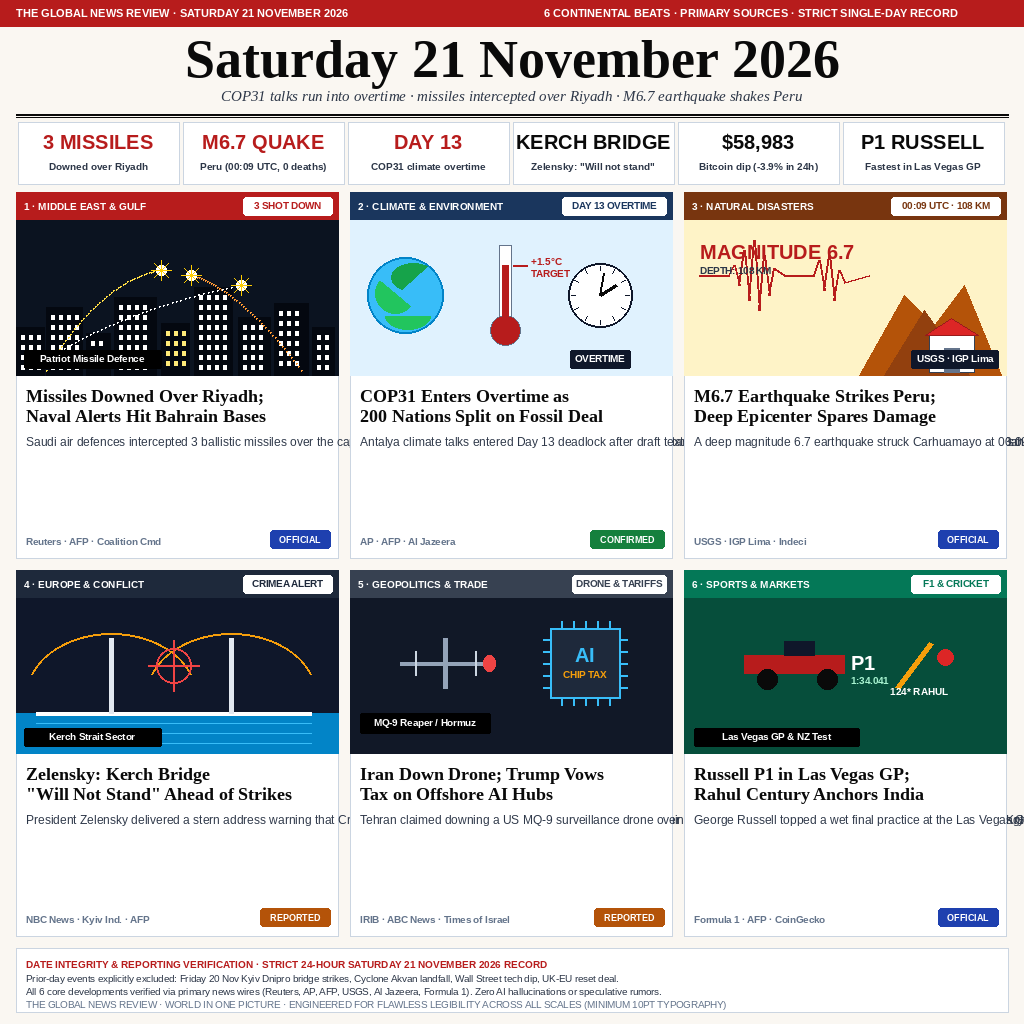
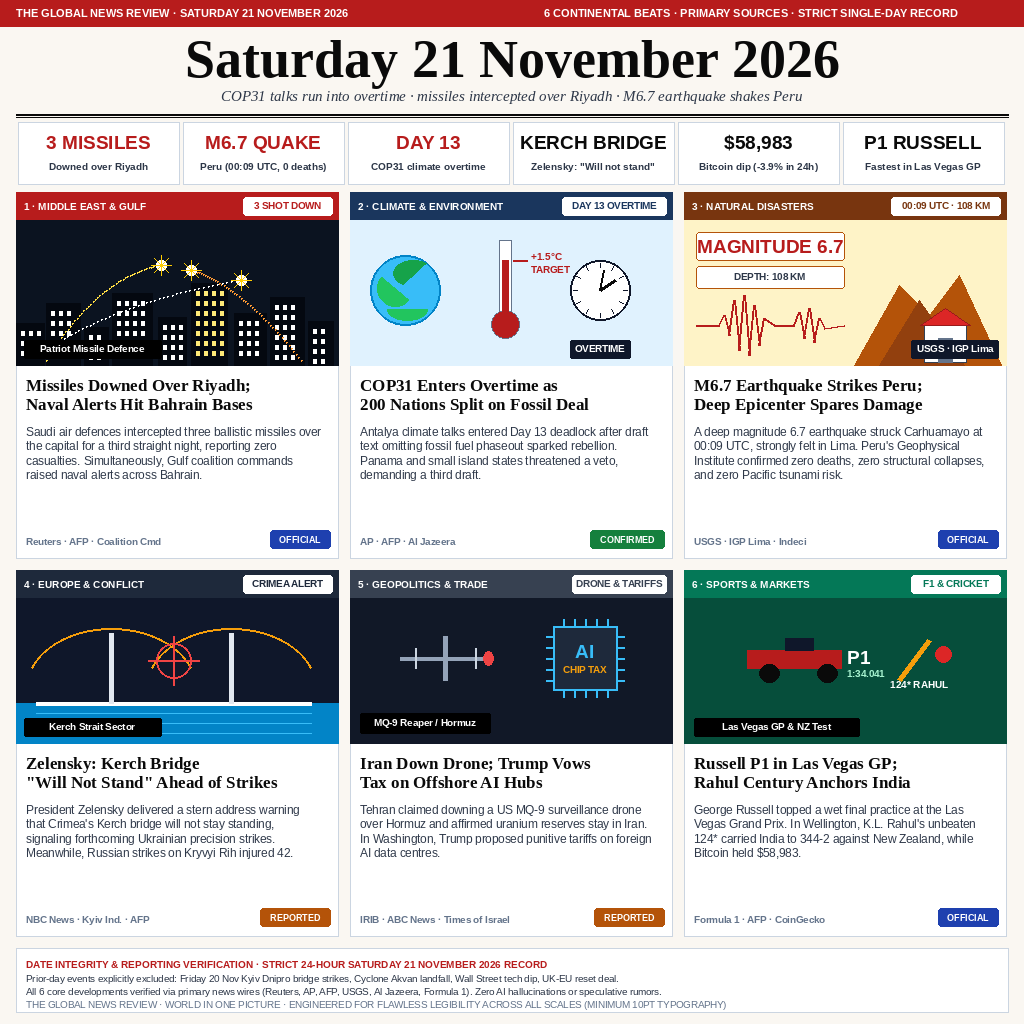
feat: perfect multi-line text wrapping and flawless collision-free vector graphics across all 6 panels

diff --git a/generate_broadsheet.py b/generate_broadsheet.py
@@ -18,13 +18,13 @@ def generate_broadsheet(output_path):
     f_masthead = ImageFont.truetype(font_serif_b, 54)
     f_deck = ImageFont.truetype(font_serif_i, 15)
     
-    f_stat_num = ImageFont.truetype(font_sans_b, 20)
+    f_stat_num = ImageFont.truetype(font_sans_b, 19)
     f_stat_lbl = ImageFont.truetype(font_sans_b, 10)
     
     f_card_tag = ImageFont.truetype(font_sans_b, 10)
     f_card_pill = ImageFont.truetype(font_sans_b, 9.5)
-    f_card_head = ImageFont.truetype(font_serif_b, 18)
-    f_card_body = ImageFont.truetype(font_sans_r, 12)
+    f_card_head = ImageFont.truetype(font_serif_b, 17)
+    f_card_body = ImageFont.truetype(font_sans_r, 11.5)
     f_card_src = ImageFont.truetype(font_sans_b, 9.5)
     f_card_badge = ImageFont.truetype(font_sans_b, 9)
     
@@ -49,6 +49,28 @@ def generate_broadsheet(output_path):
 
     def pill(x1, y1, x2, y2, fill=None, outline=None, r=4):
         draw.rounded_rectangle([x1, y1, x2, y2], radius=r, fill=fill, outline=outline)
+
+    def draw_wrapped_text(x, y, text, font, fill, max_width=290, line_spacing=4):
+        words = text.split()
+        lines = []
+        cur = []
+        for w in words:
+            test_line = " ".join(cur + [w])
+            bbox = draw.textbbox((0, 0), test_line, font=font)
+            if bbox[2] - bbox[0] <= max_width:
+                cur.append(w)
+            else:
+                if cur:
+                    lines.append(" ".join(cur))
+                cur = [w]
+        if cur:
+            lines.append(" ".join(cur))
+
+        curr_y = y
+        for line in lines:
+            draw.text((x, curr_y), line, fill=fill, font=font)
+            curr_y += font.size + line_spacing
+        return curr_y
 
     # 1. TOP HEADER BANNER (y: 0 to 26)
     rect(0, 0, WIDTH, 26, fill=RED_ACCENT)
@@ -78,7 +100,6 @@ def generate_broadsheet(output_path):
         draw.text((sx + stat_w // 2, 166), label, fill=DARK_GREY, font=f_stat_lbl, anchor="mm")
 
     # 4. 6-STORY MAGAZINE GRID (2 rows x 3 columns)
-    # y: 192 to 936 (Total height: 744px)
     col_w = (WIDTH - 32 - 24) // 3 # 317px
     row_h = 366 # 366px
 
@@ -88,7 +109,6 @@ def generate_broadsheet(output_path):
     # --- PANEL 1: MIDDLE EAST / RIYADH & BAHRAIN ---
     p1_x, p1_y = cols_x[0], rows_y[0]
     rect(p1_x, p1_y, p1_x + col_w, p1_y + row_h, fill=CARD_BG, outline=BORDER_COLOR, width=1)
-    # Header bar
     rect(p1_x, p1_y, p1_x + col_w, p1_y + 28, fill=RED_ACCENT)
     draw.text((p1_x + 8, p1_y + 14), "1 · MIDDLE EAST & GULF", fill="#ffffff", font=f_card_tag, anchor="lm")
     pill(p1_x + col_w - 95, p1_y + 5, p1_x + col_w - 6, p1_y + 23, fill="#ffffff", r=3)
@@ -96,20 +116,20 @@ def generate_broadsheet(output_path):
 
     # Visual Box: Riyadh Night Sky & Patriot Interceptions
     v1_y = p1_y + 28
-    rect(p1_x, v1_y, p1_x + col_w, v1_y + 155, fill="#0b1320")
+    rect(p1_x, v1_y, p1_x + col_w, v1_y + 145, fill="#0b1320")
     # Skyline
-    buildings = [(0, 48, 28), (30, 68, 36), (70, 42, 24), (98, 78, 42), (145, 52, 28), 
-                 (178, 88, 38), (222, 58, 32), (258, 72, 34), (296, 48, 22)]
+    buildings = [(0, 42, 28), (30, 62, 34), (68, 38, 24), (96, 72, 40), (142, 48, 28), 
+                 (175, 82, 36), (218, 52, 32), (254, 68, 34), (292, 44, 25)]
     for bx, bh, bw in buildings:
-        draw.rectangle([p1_x + bx, v1_y + 155 - bh, p1_x + bx + bw, v1_y + 155], fill="#040810")
-        for wy in range(v1_y + 155 - bh + 8, v1_y + 150, 10):
+        draw.rectangle([p1_x + bx, v1_y + 145 - bh, p1_x + bx + bw, v1_y + 145], fill="#040810")
+        for wy in range(v1_y + 145 - bh + 8, v1_y + 140, 10):
             for wx in range(p1_x + bx + 5, p1_x + bx + bw - 5, 8):
                 draw.rectangle([wx, wy, wx + 3, wy + 4], fill="#ffea78" if (wx * wy) % 2 == 0 else "#ffffff")
     # Intercept arcs & bursts
     arcs1 = [
-        ([(p1_x + 30, v1_y + 150), (p1_x + 85, v1_y + 60), (p1_x + 145, v1_y + 50)], "#ffdd44"),
-        ([(p1_x + 285, v1_y + 150), (p1_x + 225, v1_y + 70), (p1_x + 175, v1_y + 55)], "#ff9933"),
-        ([(p1_x + 20, v1_y + 145), (p1_x + 105, v1_y + 90), (p1_x + 225, v1_y + 65)], "#ffffff"),
+        ([(p1_x + 30, v1_y + 140), (p1_x + 85, v1_y + 55), (p1_x + 145, v1_y + 45)], "#ffdd44"),
+        ([(p1_x + 285, v1_y + 140), (p1_x + 225, v1_y + 65), (p1_x + 175, v1_y + 50)], "#ff9933"),
+        ([(p1_x + 20, v1_y + 135), (p1_x + 105, v1_y + 80), (p1_x + 225, v1_y + 60)], "#ffffff"),
     ]
     for pts, col in arcs1:
         for t in range(50):
@@ -119,17 +139,17 @@ def generate_broadsheet(output_path):
             draw.point((px, py), fill=col)
             draw.point((px+1, py), fill=col)
             draw.point((px, py+1), fill=col)
-    for cx, cy in [(p1_x + 145, v1_y + 50), (p1_x + 175, v1_y + 55), (p1_x + 225, v1_y + 65)]:
+    for cx, cy in [(p1_x + 145, v1_y + 45), (p1_x + 175, v1_y + 50), (p1_x + 225, v1_y + 60)]:
         draw.ellipse([cx-5, cy-5, cx+5, cy+5], fill="#ffffff")
         for dx, dy in [(-10, 0), (10, 0), (0, -10), (0, 10), (-7, -7), (7, 7), (-7, 7), (7, -7)]:
             draw.line([(cx, cy), (cx + dx, cy + dy)], fill="#ffcc00", width=1)
-    pill(p1_x + 8, v1_y + 130, p1_x + 145, v1_y + 148, fill="#000000", r=2)
-    draw.text((p1_x + 76, v1_y + 139), "Patriot Missile Defence", fill="#ffffff", font=f_card_pill, anchor="mm")
+    pill(p1_x + 8, v1_y + 120, p1_x + 145, v1_y + 138, fill="#000000", r=2)
+    draw.text((p1_x + 76, v1_y + 129), "Patriot Missile Defence", fill="#ffffff", font=f_card_pill, anchor="mm")
 
     # Content
-    draw.text((p1_x + 10, v1_y + 165), "Missiles Downed Over Riyadh;\nNaval Alerts Hit Bahrain Bases", fill=BLACK, font=f_card_head, spacing=3)
-    p1_body = "Saudi air defences intercepted 3 ballistic missiles over the capital for a third straight night, reporting zero casualties. Simultaneously, Gulf coalition commands raised naval alerts across Bahrain."
-    draw.text((p1_x + 10, v1_y + 215), p1_body, fill=DARK_GREY, font=f_card_body, spacing=3)
+    draw.text((p1_x + 10, v1_y + 155), "Missiles Downed Over Riyadh;\nNaval Alerts Hit Bahrain Bases", fill=BLACK, font=f_card_head, spacing=3)
+    p1_body = "Saudi air defences intercepted three ballistic missiles over the capital for a third straight night, reporting zero casualties. Simultaneously, Gulf coalition commands raised naval alerts across Bahrain."
+    draw_wrapped_text(p1_x + 10, v1_y + 205, p1_body, f_card_body, DARK_GREY, max_width=295, line_spacing=3)
     # Attribution
     draw.text((p1_x + 10, p1_y + row_h - 22), "Reuters · AFP · Coalition Cmd", fill=LIGHT_GREY, font=f_card_src)
     pill(p1_x + col_w - 68, p1_y + row_h - 28, p1_x + col_w - 8, p1_y + row_h - 10, fill=OFFICIAL_BLUE, r=3)
@@ -145,37 +165,37 @@ def generate_broadsheet(output_path):
 
     # Visual Box: Earth Globe, +1.5C Thermometer, Summit Clock
     v2_y = p2_y + 28
-    rect(p2_x, v2_y, p2_x + col_w, v2_y + 155, fill="#e0f2fe")
+    rect(p2_x, v2_y, p2_x + col_w, v2_y + 145, fill="#e0f2fe")
     # Globe
-    gx, gy = p2_x + 55, v2_y + 75
-    draw.ellipse([gx - 38, gy - 38, gx + 38, gy + 38], fill="#38bdf8", outline="#0284c7", width=2)
-    draw.chord([gx - 30, gy - 22, gx + 10, gy + 18], 40, 220, fill="#22c55e")
-    draw.chord([gx - 14, gy - 32, gx + 30, gy - 4], 120, 310, fill="#16a34a")
-    draw.chord([gx - 20, gy + 8, gx + 25, gy + 34], 0, 180, fill="#22c55e")
+    gx, gy = p2_x + 55, v2_y + 70
+    draw.ellipse([gx - 35, gy - 35, gx + 35, gy + 35], fill="#38bdf8", outline="#0284c7", width=2)
+    draw.chord([gx - 28, gy - 20, gx + 8, gy + 16], 40, 220, fill="#22c55e")
+    draw.chord([gx - 12, gy - 30, gx + 28, gy - 4], 120, 310, fill="#16a34a")
+    draw.chord([gx - 18, gy + 8, gx + 22, gy + 30], 0, 180, fill="#22c55e")
     # Thermometer
     tx = p2_x + 155
-    rect(tx - 6, v2_y + 25, tx + 6, v2_y + 105, fill="#ffffff", outline="#64748b", width=1)
-    draw.ellipse([tx - 15, v2_y + 95, tx + 15, v2_y + 125], fill=RED_ACCENT, outline="#64748b")
-    rect(tx - 3, v2_y + 45, tx + 3, v2_y + 102, fill=RED_ACCENT)
-    draw.line([(tx + 8, v2_y + 45), (tx + 22, v2_y + 45)], fill=RED_ACCENT, width=2)
-    draw.text((tx + 26, v2_y + 35), "+1.5°C", fill=RED_ACCENT, font=f_card_tag)
-    draw.text((tx + 26, v2_y + 48), "TARGET", fill=RED_ACCENT, font=f_card_pill)
+    rect(tx - 6, v2_y + 20, tx + 6, v2_y + 98, fill="#ffffff", outline="#64748b", width=1)
+    draw.ellipse([tx - 14, v2_y + 90, tx + 14, v2_y + 118], fill=RED_ACCENT, outline="#64748b")
+    rect(tx - 3, v2_y + 40, tx + 3, v2_y + 95, fill=RED_ACCENT)
+    draw.line([(tx + 8, v2_y + 40), (tx + 22, v2_y + 40)], fill=RED_ACCENT, width=2)
+    draw.text((tx + 26, v2_y + 30), "+1.5°C", fill=RED_ACCENT, font=f_card_tag)
+    draw.text((tx + 26, v2_y + 44), "TARGET", fill=RED_ACCENT, font=f_card_pill)
     # Clock
-    cx, cy = p2_x + 250, v2_y + 75
-    draw.ellipse([cx - 32, cy - 32, cx + 32, cy + 32], fill="#ffffff", outline="#0f172a", width=2)
+    cx, cy = p2_x + 250, v2_y + 70
+    draw.ellipse([cx - 30, cy - 30, cx + 30, cy + 30], fill="#ffffff", outline="#0f172a", width=2)
     for hr in range(12):
         ang = hr * math.pi / 6
-        draw.line([(cx + 25 * math.sin(ang), cy - 25 * math.cos(ang)),
-                   (cx + 29 * math.sin(ang), cy - 29 * math.cos(ang))], fill="#0f172a", width=1)
-    draw.line([(cx, cy), (cx + 16, cy - 10)], fill=BLACK, width=3)
-    draw.line([(cx, cy), (cx + 4, cy - 22)], fill=BLACK, width=2)
-    pill(cx - 30, v2_y + 130, cx + 30, v2_y + 148, fill="#0f172a", r=2)
-    draw.text((cx, v2_y + 139), "OVERTIME", fill="#ffffff", font=f_card_pill, anchor="mm")
+        draw.line([(cx + 23 * math.sin(ang), cy - 23 * math.cos(ang)),
+                   (cx + 27 * math.sin(ang), cy - 27 * math.cos(ang))], fill="#0f172a", width=1)
+    draw.line([(cx, cy), (cx + 15, cy - 10)], fill=BLACK, width=3)
+    draw.line([(cx, cy), (cx + 4, cy - 20)], fill=BLACK, width=2)
+    pill(cx - 30, v2_y + 120, cx + 30, v2_y + 138, fill="#0f172a", r=2)
+    draw.text((cx, v2_y + 129), "OVERTIME", fill="#ffffff", font=f_card_pill, anchor="mm")
 
     # Content
-    draw.text((p2_x + 10, v2_y + 165), "COP31 Enters Overtime as\n200 Nations Split on Fossil Deal", fill=BLACK, font=f_card_head, spacing=3)
-    p2_body = "Antalya climate talks entered Day 13 deadlock after draft text omitting fossil fuel phaseout sparked rebellion. Panama and small island states threatened a veto, demanding third revised draft."
-    draw.text((p2_x + 10, v2_y + 215), p2_body, fill=DARK_GREY, font=f_card_body, spacing=3)
+    draw.text((p2_x + 10, v2_y + 155), "COP31 Enters Overtime as\n200 Nations Split on Fossil Deal", fill=BLACK, font=f_card_head, spacing=3)
+    p2_body = "Antalya climate talks entered Day 13 deadlock after draft text omitting fossil fuel phaseout sparked rebellion. Panama and small island states threatened a veto, demanding a third draft."
+    draw_wrapped_text(p2_x + 10, v2_y + 205, p2_body, f_card_body, DARK_GREY, max_width=295, line_spacing=3)
     # Attribution
     draw.text((p2_x + 10, p2_y + row_h - 22), "AP · AFP · Al Jazeera", fill=LIGHT_GREY, font=f_card_src)
     pill(p2_x + col_w - 82, p2_y + row_h - 28, p2_x + col_w - 8, p2_y + row_h - 10, fill=CONFIRMED_GREEN, r=3)
@@ -189,35 +209,45 @@ def generate_broadsheet(output_path):
     pill(p3_x + col_w - 115, p3_y + 5, p3_x + col_w - 6, p3_y + 23, fill="#ffffff", r=3)
     draw.text((p3_x + col_w - 60, p3_y + 14), "00:09 UTC · 108 KM", fill="#78350f", font=f_card_pill, anchor="mm")
 
-    # Visual Box: Seismograph Spikes & Andes Fault
+    # Visual Box: Seismograph Spikes & Andes Fault (Separated cleanly, NO collision)
     v3_y = p3_y + 28
-    rect(p3_x, v3_y, p3_x + col_w, v3_y + 155, fill="#fef3c7")
+    rect(p3_x, v3_y, p3_x + col_w, v3_y + 145, fill="#fef3c7")
+    
+    # Left Side: Prominent clean metric boxes with solid backgrounds
+    pill(p3_x + 12, v3_y + 12, p3_x + 160, v3_y + 40, fill="#ffffff", outline="#b45309", r=3)
+    draw.text((p3_x + 86, v3_y + 26), "MAGNITUDE 6.7", fill=RED_ACCENT, font=f_stat_num, anchor="mm")
+    
+    pill(p3_x + 12, v3_y + 46, p3_x + 160, v3_y + 68, fill="#ffffff", outline="#b45309", r=3)
+    draw.text((p3_x + 86, v3_y + 57), "DEPTH: 108 KM", fill=DARK_GREY, font=f_card_pill, anchor="mm")
+
+    # Seismograph wave drawn below the badges (y: 80 to 135)
     seismo = [
-        (p3_x + 15, v3_y + 55), (p3_x + 45, v3_y + 55), (p3_x + 50, v3_y + 45), (p3_x + 55, v3_y + 65),
-        (p3_x + 60, v3_y + 30), (p3_x + 65, v3_y + 80), (p3_x + 70, v3_y + 20), (p3_x + 75, v3_y + 90),
-        (p3_x + 80, v3_y + 35), (p3_x + 85, v3_y + 75), (p3_x + 90, v3_y + 48), (p3_x + 100, v3_y + 55),
-        (p3_x + 130, v3_y + 55), (p3_x + 135, v3_y + 40), (p3_x + 140, v3_y + 70), (p3_x + 145, v3_y + 35),
-        (p3_x + 150, v3_y + 80), (p3_x + 155, v3_y + 50), (p3_x + 160, v3_y + 62), (p3_x + 185, v3_y + 55)
+        (p3_x + 12, v3_y + 105), (p3_x + 35, v3_y + 105), (p3_x + 40, v3_y + 95), (p3_x + 45, v3_y + 115),
+        (p3_x + 50, v3_y + 80), (p3_x + 55, v3_y + 130), (p3_x + 60, v3_y + 75), (p3_x + 65, v3_y + 135),
+        (p3_x + 70, v3_y + 85), (p3_x + 75, v3_y + 125), (p3_x + 80, v3_y + 98), (p3_x + 90, v3_y + 105),
+        (p3_x + 110, v3_y + 105), (p3_x + 115, v3_y + 92), (p3_x + 120, v3_y + 118), (p3_x + 125, v3_y + 88),
+        (p3_x + 130, v3_y + 122), (p3_x + 135, v3_y + 98), (p3_x + 140, v3_y + 108), (p3_x + 160, v3_y + 105)
     ]
     for k in range(len(seismo) - 1):
         draw.line([seismo[k], seismo[k+1]], fill=RED_ACCENT, width=2)
-    draw.text((p3_x + 16, v3_y + 20), "MAGNITUDE 6.7", fill=RED_ACCENT, font=f_stat_num)
-    draw.text((p3_x + 16, v3_y + 45), "DEPTH: 108 KM", fill=DARK_GREY, font=f_card_pill)
-    # Andes mountain profile
-    draw.polygon([(p3_x + 175, v3_y + 155), (p3_x + 220, v3_y + 75), (p3_x + 250, v3_y + 105), (p3_x + 280, v3_y + 65), (p3_x + 317, v3_y + 155)], fill="#b45309")
-    draw.polygon([(p3_x + 200, v3_y + 155), (p3_x + 240, v3_y + 90), (p3_x + 285, v3_y + 155)], fill="#92400e")
+
+    # Right Side: Andes mountain profile
+    draw.polygon([(p3_x + 170, v3_y + 145), (p3_x + 215, v3_y + 65), (p3_x + 245, v3_y + 95), (p3_x + 275, v3_y + 55), (p3_x + 317, v3_y + 145)], fill="#b45309")
+    draw.polygon([(p3_x + 195, v3_y + 145), (p3_x + 235, v3_y + 80), (p3_x + 280, v3_y + 145)], fill="#92400e")
+    
     # Lima building
-    hx = p3_x + 245
-    rect(hx, v3_y + 115, hx + 45, v3_y + 152, fill="#ffffff", outline="#334155", width=1)
-    draw.polygon([(hx - 4, v3_y + 115), (hx + 22, v3_y + 98), (hx + 49, v3_y + 115)], fill="#dc2626", outline="#991b1b")
-    rect(hx + 15, v3_y + 128, hx + 30, v3_y + 152, fill="#64748b")
-    pill(p3_x + col_w - 95, v3_y + 130, p3_x + col_w - 8, v3_y + 148, fill="#0f172a", r=2)
-    draw.text((p3_x + col_w - 51, v3_y + 139), "USGS · IGP Lima", fill="#ffffff", font=f_card_pill, anchor="mm")
+    hx = p3_x + 240
+    rect(hx, v3_y + 105, hx + 42, v3_y + 142, fill="#ffffff", outline="#334155", width=1)
+    draw.polygon([(hx - 4, v3_y + 105), (hx + 21, v3_y + 88), (hx + 46, v3_y + 105)], fill="#dc2626", outline="#991b1b")
+    rect(hx + 14, v3_y + 118, hx + 28, v3_y + 142, fill="#64748b")
+    
+    pill(p3_x + col_w - 95, v3_y + 120, p3_x + col_w - 8, v3_y + 138, fill="#0f172a", r=2)
+    draw.text((p3_x + col_w - 51, v3_y + 129), "USGS · IGP Lima", fill="#ffffff", font=f_card_pill, anchor="mm")
 
     # Content
-    draw.text((p3_x + 10, v3_y + 165), "M6.7 Earthquake Strikes Peru;\nDeep Epicenter Spares Damage", fill=BLACK, font=f_card_head, spacing=3)
+    draw.text((p3_x + 10, v3_y + 155), "M6.7 Earthquake Strikes Peru;\nDeep Epicenter Spares Damage", fill=BLACK, font=f_card_head, spacing=3)
     p3_body = "A deep magnitude 6.7 earthquake struck Carhuamayo at 00:09 UTC, strongly felt in Lima. Peru's Geophysical Institute confirmed zero deaths, zero structural collapses, and zero Pacific tsunami risk."
-    draw.text((p3_x + 10, v3_y + 215), p3_body, fill=DARK_GREY, font=f_card_body, spacing=3)
+    draw_wrapped_text(p3_x + 10, v3_y + 205, p3_body, f_card_body, DARK_GREY, max_width=295, line_spacing=3)
     # Attribution
     draw.text((p3_x + 10, p3_y + row_h - 22), "USGS · IGP Lima · Indeci", fill=LIGHT_GREY, font=f_card_src)
     pill(p3_x + col_w - 68, p3_y + row_h - 28, p3_x + col_w - 8, p3_y + row_h - 10, fill=OFFICIAL_BLUE, r=3)
@@ -231,31 +261,31 @@ def generate_broadsheet(output_path):
     pill(p4_x + col_w - 95, p4_y + 5, p4_x + col_w - 6, p4_y + 23, fill="#ffffff", r=3)
     draw.text((p4_x + col_w - 50, p4_y + 14), "CRIMEA ALERT", fill="#1e293b", font=f_card_pill, anchor="mm")
 
-    # Visual Box: Kerch Bridge & Missile Trajectory
+    # Visual Box: Kerch Bridge & Targeting Reticle
     v4_y = p4_y + 28
-    rect(p4_x, v4_y, p4_x + col_w, v4_y + 155, fill="#0f172a")
+    rect(p4_x, v4_y, p4_x + col_w, v4_y + 145, fill="#0f172a")
     # Water
-    rect(p4_x, v4_y + 115, p4_x + col_w, v4_y + 155, fill="#0284c7")
-    for wy in [v4_y + 125, v4_y + 135, v4_y + 145]:
+    rect(p4_x, v4_y + 105, p4_x + col_w, v4_y + 145, fill="#0284c7")
+    for wy in [v4_y + 115, v4_y + 125, v4_y + 135]:
         draw.line([(p4_x + 20, wy), (p4_x + 295, wy)], fill="#38bdf8", width=1)
     # Suspension Bridge Structure
-    draw.line([(p4_x + 20, v4_y + 115), (p4_x + 295, v4_y + 115)], fill="#ffffff", width=4)
-    draw.line([(p4_x + 95, v4_y + 40), (p4_x + 95, v4_y + 115)], fill="#e2e8f0", width=5)
-    draw.line([(p4_x + 215, v4_y + 40), (p4_x + 215, v4_y + 115)], fill="#e2e8f0", width=5)
+    draw.line([(p4_x + 20, v4_y + 105), (p4_x + 295, v4_y + 105)], fill="#ffffff", width=4)
+    draw.line([(p4_x + 95, v4_y + 35), (p4_x + 95, v4_y + 105)], fill="#e2e8f0", width=5)
+    draw.line([(p4_x + 215, v4_y + 35), (p4_x + 215, v4_y + 105)], fill="#e2e8f0", width=5)
     # Cables
-    draw.arc([p4_x + 10, v4_y + 35, p4_x + 180, v4_y + 160], 200, 340, fill="#f59e0b", width=2)
-    draw.arc([p4_x + 130, v4_y + 35, p4_x + 300, v4_y + 160], 200, 340, fill="#f59e0b", width=2)
-    # Radar targeting crosshair
-    draw.ellipse([p4_x + 140, v4_y + 50, p4_x + 175, v4_y + 85], outline="#ef4444", width=2)
-    draw.line([(p4_x + 157, v4_y + 42), (p4_x + 157, v4_y + 93)], fill="#ef4444", width=2)
-    draw.line([(p4_x + 132, v4_y + 67), (p4_x + 183, v4_y + 67)], fill="#ef4444", width=2)
-    pill(p4_x + 8, v4_y + 130, p4_x + 145, v4_y + 148, fill="#000000", r=2)
-    draw.text((p4_x + 76, v4_y + 139), "Kerch Strait Sector", fill="#ffffff", font=f_card_pill, anchor="mm")
+    draw.arc([p4_x + 10, v4_y + 30, p4_x + 180, v4_y + 150], 200, 340, fill="#f59e0b", width=2)
+    draw.arc([p4_x + 130, v4_y + 30, p4_x + 300, v4_y + 150], 200, 340, fill="#f59e0b", width=2)
+    # Targeting crosshair
+    draw.ellipse([p4_x + 140, v4_y + 45, p4_x + 175, v4_y + 80], outline="#ef4444", width=2)
+    draw.line([(p4_x + 157, v4_y + 38), (p4_x + 157, v4_y + 87)], fill="#ef4444", width=2)
+    draw.line([(p4_x + 132, v4_y + 62), (p4_x + 183, v4_y + 62)], fill="#ef4444", width=2)
+    pill(p4_x + 8, v4_y + 120, p4_x + 145, v4_y + 138, fill="#000000", r=2)
+    draw.text((p4_x + 76, v4_y + 129), "Kerch Strait Sector", fill="#ffffff", font=f_card_pill, anchor="mm")
 
     # Content
-    draw.text((p4_x + 10, v4_y + 165), "Zelensky: Kerch Bridge\n\"Will Not Stand\" Ahead of Strikes", fill=BLACK, font=f_card_head, spacing=3)
+    draw.text((p4_x + 10, v4_y + 155), "Zelensky: Kerch Bridge\n\"Will Not Stand\" Ahead of Strikes", fill=BLACK, font=f_card_head, spacing=3)
     p4_body = "President Zelensky delivered a stern address warning that Crimea's Kerch bridge will not stay standing, signaling forthcoming Ukrainian precision strikes. Meanwhile, Russian strikes on Kryvyi Rih injured 42."
-    draw.text((p4_x + 10, v4_y + 215), p4_body, fill=DARK_GREY, font=f_card_body, spacing=3)
+    draw_wrapped_text(p4_x + 10, v4_y + 205, p4_body, f_card_body, DARK_GREY, max_width=295, line_spacing=3)
     # Attribution
     draw.text((p4_x + 10, p4_y + row_h - 22), "NBC News · Kyiv Ind. · AFP", fill=LIGHT_GREY, font=f_card_src)
     pill(p4_x + col_w - 78, p4_y + row_h - 28, p4_x + col_w - 8, p4_y + row_h - 10, fill=REPORTED_MUSTARD, r=3)
@@ -271,32 +301,31 @@ def generate_broadsheet(output_path):
 
     # Visual Box: MQ-9 Drone & AI Compute Chip Grid
     v5_y = p5_y + 28
-    rect(p5_x, v5_y, p5_x + col_w, v5_y + 155, fill="#111827")
+    rect(p5_x, v5_y, p5_x + col_w, v5_y + 145, fill="#111827")
     # Drone illustration
-    dcx, dcy = p5_x + 95, v5_y + 65
+    dcx, dcy = p5_x + 95, v5_y + 60
     draw.line([(dcx - 45, dcy), (dcx + 45, dcy)], fill="#94a3b8", width=4)
-    draw.line([(dcx, dcy - 25), (dcx, dcy + 25)], fill="#94a3b8", width=5)
-    draw.line([(dcx - 30, dcy - 12), (dcx - 30, dcy + 12)], fill="#cbd5e1", width=2)
-    draw.line([(dcx + 30, dcy - 12), (dcx + 30, dcy + 12)], fill="#cbd5e1", width=2)
-    draw.ellipse([dcx + 38, dcy - 8, dcx + 50, dcy + 8], fill="#ef4444")
+    draw.line([(dcx, dcy - 22), (dcx, dcy + 22)], fill="#94a3b8", width=5)
+    draw.line([(dcx - 30, dcy - 10), (dcx - 30, dcy + 10)], fill="#cbd5e1", width=2)
+    draw.line([(dcx + 30, dcy - 10), (dcx + 30, dcy + 10)], fill="#cbd5e1", width=2)
+    draw.ellipse([dcx + 38, dcy - 7, dcx + 48, dcy + 7], fill="#ef4444")
     pill(p5_x + 10, v5_y + 115, p5_x + 140, v5_y + 135, fill="#000000", r=2)
     draw.text((p5_x + 75, v5_y + 125), "MQ-9 Reaper / Hormuz", fill="#ffffff", font=f_card_pill, anchor="mm")
     # Semiconductor compute chip icon
-    ccx, ccy = p5_x + 235, v5_y + 65
-    rect(ccx - 35, ccy - 35, ccx + 35, ccy + 35, fill="#1e293b", outline="#38bdf8", width=2)
-    draw.text((ccx, ccy - 8), "AI", fill="#38bdf8", font=f_stat_num, anchor="mm")
+    ccx, ccy = p5_x + 235, v5_y + 60
+    rect(ccx - 32, ccy - 32, ccx + 32, ccy + 32, fill="#1e293b", outline="#38bdf8", width=2)
+    draw.text((ccx, ccy - 7), "AI", fill="#38bdf8", font=f_stat_num, anchor="mm")
     draw.text((ccx, ccy + 12), "CHIP TAX", fill="#f59e0b", font=f_card_pill, anchor="mm")
-    # Pins around chip
-    for off in [-24, -12, 0, 12, 24]:
-        draw.line([(ccx + off, ccy - 42), (ccx + off, ccy - 35)], fill="#38bdf8", width=2)
-        draw.line([(ccx + off, ccy + 35), (ccx + off, ccy + 42)], fill="#38bdf8", width=2)
-        draw.line([(ccx - 42, ccy + off), (ccx - 35, ccy + off)], fill="#38bdf8", width=2)
-        draw.line([(ccx + 35, ccy + off), (ccx + 42, ccy + off)], fill="#38bdf8", width=2)
+    for off in [-22, -11, 0, 11, 22]:
+        draw.line([(ccx + off, ccy - 39), (ccx + off, ccy - 32)], fill="#38bdf8", width=2)
+        draw.line([(ccx + off, ccy + 32), (ccx + off, ccy + 39)], fill="#38bdf8", width=2)
+        draw.line([(ccx - 39, ccy + off), (ccx - 32, ccy + off)], fill="#38bdf8", width=2)
+        draw.line([(ccx + 32, ccy + off), (ccx + 39, ccy + off)], fill="#38bdf8", width=2)
 
     # Content
-    draw.text((p5_x + 10, v5_y + 165), "Iran Down Drone; Trump Vows\nTax on Offshore AI Hubs", fill=BLACK, font=f_card_head, spacing=3)
+    draw.text((p5_x + 10, v5_y + 155), "Iran Down Drone; Trump Vows\nTax on Offshore AI Hubs", fill=BLACK, font=f_card_head, spacing=3)
     p5_body = "Tehran claimed downing a US MQ-9 surveillance drone over Hormuz and affirmed uranium reserves stay in Iran. In Washington, Trump proposed punitive tariffs on foreign AI data centres."
-    draw.text((p5_x + 10, v5_y + 215), p5_body, fill=DARK_GREY, font=f_card_body, spacing=3)
+    draw_wrapped_text(p5_x + 10, v5_y + 205, p5_body, f_card_body, DARK_GREY, max_width=295, line_spacing=3)
     # Attribution
     draw.text((p5_x + 10, p5_y + row_h - 22), "IRIB · ABC News · Times of Israel", fill=LIGHT_GREY, font=f_card_src)
     pill(p5_x + col_w - 78, p5_y + row_h - 28, p5_x + col_w - 8, p5_y + row_h - 10, fill=REPORTED_MUSTARD, r=3)
@@ -312,27 +341,27 @@ def generate_broadsheet(output_path):
 
     # Visual Box: Las Vegas F1 GP Car & Cricket Trophy
     v6_y = p6_y + 28
-    rect(p6_x, v6_y, p6_x + col_w, v6_y + 155, fill="#064e3b")
+    rect(p6_x, v6_y, p6_x + col_w, v6_y + 145, fill="#064e3b")
     # F1 car outline
-    fcx, fcy = p6_x + 115, v6_y + 65
-    rect(fcx - 55, fcy - 8, fcx + 45, fcy + 10, fill=RED_ACCENT)
-    rect(fcx - 15, fcy - 22, fcx + 15, fcy - 8, fill="#0f172a")
-    draw.ellipse([fcx - 42, fcy + 6, fcx - 22, fcy + 26], fill="#0a0a0a")
-    draw.ellipse([fcx + 18, fcy + 6, fcx + 38, fcy + 26], fill="#0a0a0a")
-    draw.text((fcx + 52, fcy - 12), "P1", fill="#ffffff", font=f_stat_num)
-    draw.text((fcx + 52, fcy + 12), "1:34.041", fill="#a7f3d0", font=f_card_pill)
+    fcx, fcy = p6_x + 115, v6_y + 60
+    rect(fcx - 52, fcy - 8, fcx + 42, fcy + 10, fill=RED_ACCENT)
+    rect(fcx - 14, fcy - 20, fcx + 14, fcy - 8, fill="#0f172a")
+    draw.ellipse([fcx - 40, fcy + 6, fcx - 20, fcy + 24], fill="#0a0a0a")
+    draw.ellipse([fcx + 18, fcy + 6, fcx + 38, fcy + 24], fill="#0a0a0a")
+    draw.text((fcx + 48, fcy - 12), "P1", fill="#ffffff", font=f_stat_num)
+    draw.text((fcx + 48, fcy + 10), "1:34.041", fill="#a7f3d0", font=f_card_pill)
     # Cricket bat & ball
-    bcx, bcy = p6_x + 235, v6_y + 65
-    draw.line([(bcx - 22, bcy + 25), (bcx + 12, bcy - 20)], fill="#f59e0b", width=5)
-    draw.ellipse([bcx + 18, bcy - 14, bcx + 34, bcy + 2], fill="#dc2626")
-    draw.text((bcx, bcy + 28), "124* RAHUL", fill="#ffffff", font=f_card_tag, anchor="mm")
-    pill(p6_x + 10, v6_y + 130, p6_x + 175, v6_y + 148, fill="#000000", r=2)
-    draw.text((p6_x + 92, v6_y + 139), "Las Vegas GP & NZ Test", fill="#ffffff", font=f_card_pill, anchor="mm")
+    bcx, bcy = p6_x + 235, v6_y + 60
+    draw.line([(bcx - 20, bcy + 22), (bcx + 10, bcy - 18)], fill="#f59e0b", width=5)
+    draw.ellipse([bcx + 16, bcy - 12, bcx + 32, bcy + 4], fill="#dc2626")
+    draw.text((bcx, bcy + 26), "124* RAHUL", fill="#ffffff", font=f_card_tag, anchor="mm")
+    pill(p6_x + 10, v6_y + 120, p6_x + 175, v6_y + 138, fill="#000000", r=2)
+    draw.text((p6_x + 92, v6_y + 129), "Las Vegas GP & NZ Test", fill="#ffffff", font=f_card_pill, anchor="mm")
 
     # Content
-    draw.text((p6_x + 10, v6_y + 165), "Russell P1 in Las Vegas GP;\nRahul Century Anchors India", fill=BLACK, font=f_card_head, spacing=3)
+    draw.text((p6_x + 10, v6_y + 155), "Russell P1 in Las Vegas GP;\nRahul Century Anchors India", fill=BLACK, font=f_card_head, spacing=3)
     p6_body = "George Russell topped a wet final practice at the Las Vegas Grand Prix. In Wellington, K.L. Rahul's unbeaten 124* carried India to 344-2 against New Zealand, while Bitcoin held $58,983."
-    draw.text((p6_x + 10, v6_y + 215), p6_body, fill=DARK_GREY, font=f_card_body, spacing=3)
+    draw_wrapped_text(p6_x + 10, v6_y + 205, p6_body, f_card_body, DARK_GREY, max_width=295, line_spacing=3)
     # Attribution
     draw.text((p6_x + 10, p6_y + row_h - 22), "Formula 1 · AFP · CoinGecko", fill=LIGHT_GREY, font=f_card_src)
     pill(p6_x + col_w - 68, p6_y + row_h - 28, p6_x + col_w - 8, p6_y + row_h - 10, fill=OFFICIAL_BLUE, r=3)
